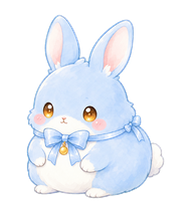
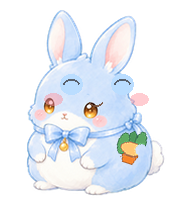
Show Ruriusagi carrot motion during idle

diff --git a/pets/ruri-usagi/README.md b/pets/ruri-usagi/README.md
@@ -30,7 +30,7 @@
 
 - 右ジャンプ: `running-right` に8枚版として反映
 - 左ジャンプ: `running-left` に8枚版として反映
-- にんじん待機: `waiting` に6枚版として反映
+- にんじん待機: `idle` と `waiting` に6枚版として反映
 - 9枚すべての元画像は `motions/` に残しています
 
 ## 検証
